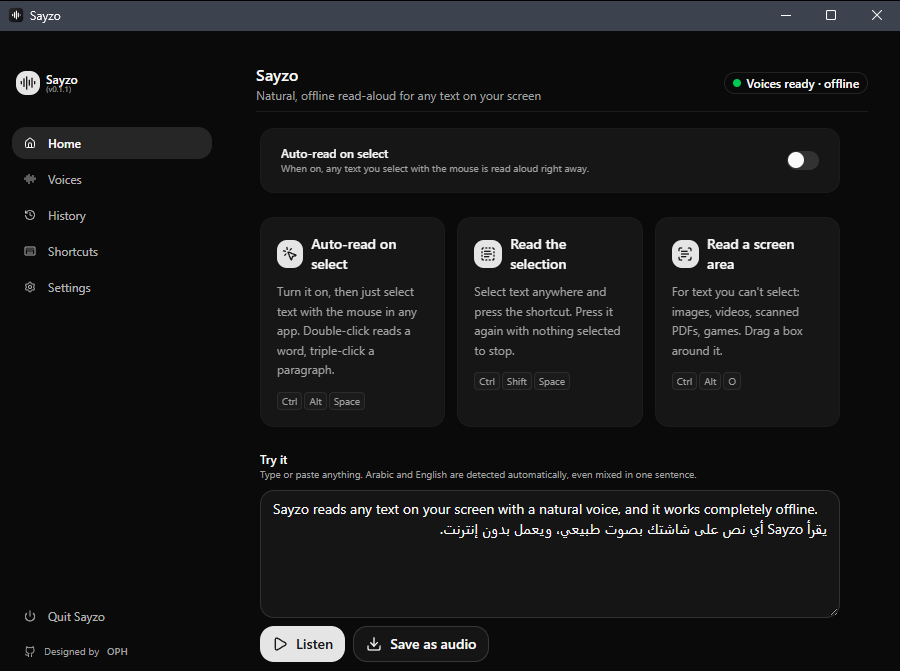
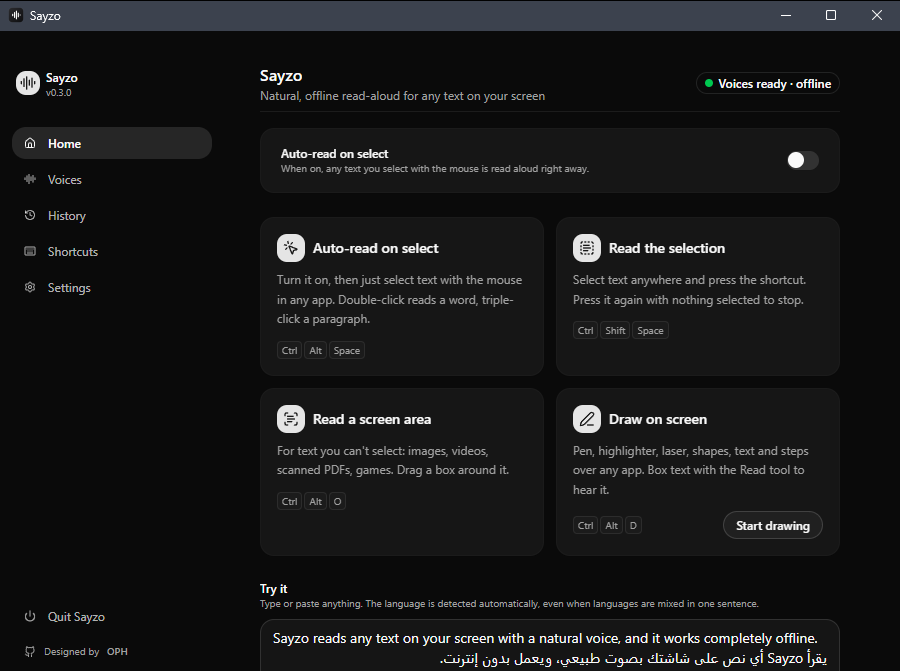
Update README screenshots for v0.3.0: mini bar and drawing

diff --git a/README.md b/README.md
@@ -18,6 +18,8 @@ Designed and developed by [**OPH**](https://github.com/op-h)
 <br />
 
 <img src="docs/screenshots/bar.png" width="600" alt="Sayzo floating bar" />
+<br />
+<img src="docs/screenshots/bar-mini.png" width="156" alt="Sayzo mini bar" />
 
 </div>
 
@@ -45,6 +47,10 @@ Sayzo is a small glass bar that floats at the top of your screen. Select text in
 - **Desktop extras.** Follows your audio device, keeps a history, sits in the tray, can launch at startup, can hide from screen sharing, and has fully customizable shortcuts plus light, dark and transparent themes.
 
 ## Screenshots
+
+**Draw on screen**, with the drawing toolbar docked under the voice bar:
+
+<img src="docs/screenshots/drawing.png" width="720" alt="Drawing on screen with Sayzo" />
 
 | Home | Voices |
 |---|---|
